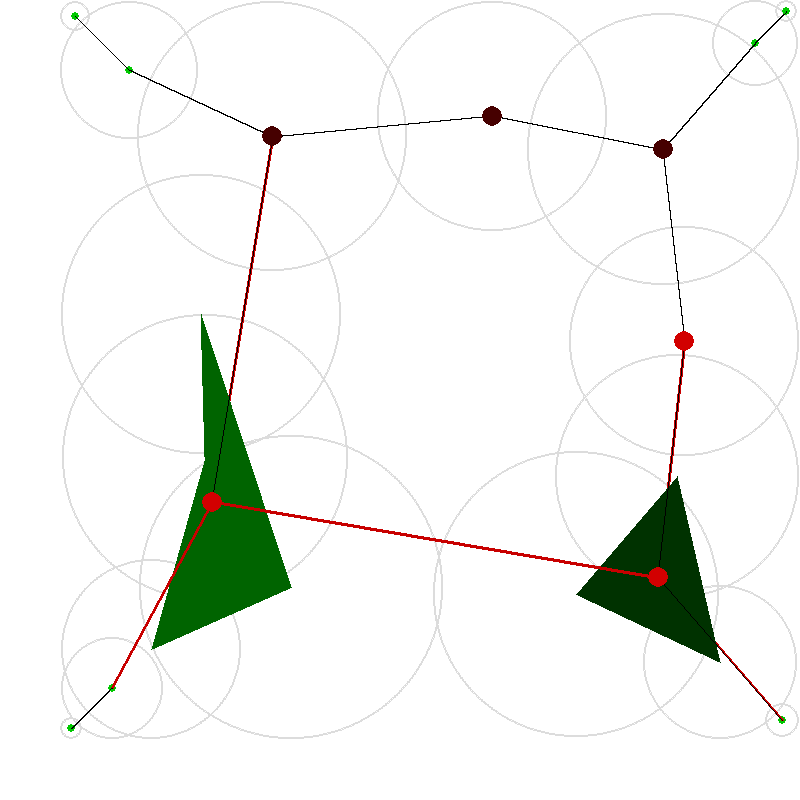
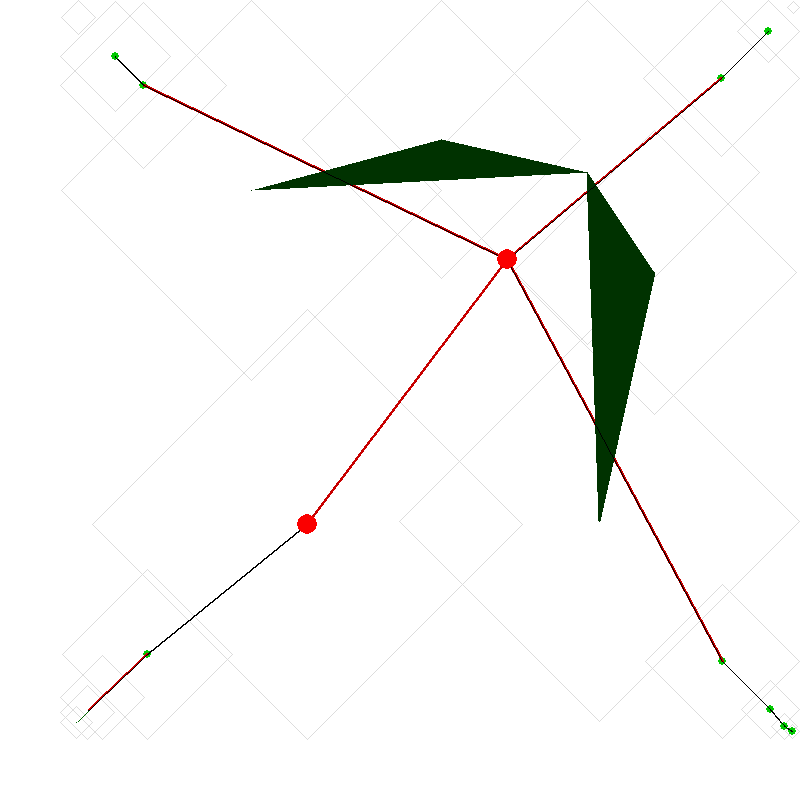
l1 metric bug solved

diff --git a/alphashape/hyper_alpha_shape.py b/alphashape/hyper_alpha_shape.py
@@ -52,11 +52,13 @@ class Nerve:
 		@return edges: (sphere1, sphere2) pairs 
 		@return triangle_set: triangle set
 		@return graph_dict:	dictionary{ sphere1:[sphere2, sphere3,...] }
-		@return edge_tri_dict: dictionary{ (sphere1, sphere2): triangle, .... }'''
-		edges = [];
-		triangle_set = [];
-		graph_dict    = {};
-		edge_tri_dict = {};
+		@return edge_tri_dict: dictionary{ (sphere1, sphere2): triangle, .... }
+		@return sphere_tri_dict: dictionary{ sphere1: [triangle1, tri2...], ... }'''
+		edges 			= [];
+		triangle_set 	= [];
+		graph_dict    	= {};
+		edge_tri_dict 	= {};
+		sphere_tri_dict = {}
 		for i in range(0, len(spheres)):
 			sphere1 = spheres[i];
 			for j in range(0, len(spheres)):
@@ -81,16 +83,29 @@ class Nerve:
 							self.__add2dict__((sphere2,sphere3), triangle, edge_tri_dict);
 							self.__add2dict__((sphere3,sphere2), triangle, edge_tri_dict);
 
+		no_same_tri_set = [];
+		same = [];
 		for tri1 in triangle_set:
+			if tri1 in same:
+				continue;
+			no_same_tri_set.append(tri1);
 			for tri2 in triangle_set:
 				if tri1 == tri2:
 					continue;
 				if tri1.spheres[0] == tri2.spheres[0] or tri1.spheres[0] == tri2.spheres[1] or tri1.spheres[0] == tri2.spheres[2]:
 					if tri1.spheres[1] == tri2.spheres[0] or tri1.spheres[1] == tri2.spheres[1] or tri1.spheres[1] == tri2.spheres[2]:
 						if tri1.spheres[2] == tri2.spheres[0] or tri1.spheres[2] == tri2.spheres[1] or tri1.spheres[2] == tri2.spheres[2]:
-							triangle_set.remove(tri2);
+							#triangle_set.remove(tri2);
+							same.append(tri2);
 
-		return edges, triangle_set, graph_dict, edge_tri_dict;
+		print "initially we have {0} triangles".format(len(triangle_set))
+
+		for tri in no_same_tri_set:
+			self.__add2dict__(tri.spheres[0], tri, sphere_tri_dict);
+			self.__add2dict__(tri.spheres[1], tri, sphere_tri_dict);
+			self.__add2dict__(tri.spheres[2], tri, sphere_tri_dict);
+
+		return edges, no_same_tri_set, graph_dict, edge_tri_dict, sphere_tri_dict;
 
 	def build_topology_roadmap(self, components, graph_dict):
 		'''Build the topology roadmap of C-space.
@@ -119,11 +134,8 @@ class Nerve:
 				new_graph[sphere] = [];
 				for neighbor in graph_dict[sphere]:	   # Loop every neighbor that connects with current sphere
 					if not sphere_comp_dict.has_key(neighbor):
-						#length = (v2(sphere.center[2], sphere.center[3])-v2(neighbor.center[2], neighbor.center[3])).r();
-						#print sphere.center[2], sphere.center[3], neighbor.center[2], neighbor.center[3], length;
 						add2dict(new_graph, sphere,	neighbor)
 					elif not sphere_comp_dict[neighbor] in new_graph[sphere]:
-						#new_graph[sphere].append(sphere_comp_dict[neighbor]);
 						add2dict(new_graph, sphere,	sphere_comp_dict[neighbor]);
 			elif( not new_graph.has_key(sphere_comp_dict[sphere]) ):# the sphere is in a component
 				component = sphere_comp_dict[sphere]
@@ -132,13 +144,8 @@ class Nerve:
 				neighbors = self.component_neighbors(component, graph_dict)
 				for neighbor in neighbors:
 					if not sphere_comp_dict.has_key(neighbor):
-						#new_graph[sphere_comp_dict[sphere]].append(element);
-						print "Comp <-> sphere"
 						add2dict(new_graph, component, neighbor)
 					elif not sphere_comp_dict[neighbor] in new_graph[component] and sphere_comp_dict[neighbor] != component:
-						#new_graph[sphere_comp_dict[sphere]].append(sphere_comp_dict[element]);
-						print "Comp <-> Comp"
-						print component, sphere_comp_dict[neighbor]
 						add2dict(new_graph, component, sphere_comp_dict[neighbor])
 		return new_graph;
 
@@ -166,7 +173,7 @@ class Nerve:
 
 		return len(edge_set) - len(vertices) + 1 - matrix_rank(matrix);
 
-	def contract(self, triangle_set, edge_tri_dict):
+	def contract(self, triangle_set, edge_tri_dict, sphere_tri_dict):
 		'''Contract a set of triangles to several sets of triangles, such that each set has first betti number of 0'''
 		visited_vertices = [];
 		dict_set = []; 	# we use a dictionary to store a set of triangles;
@@ -174,13 +181,13 @@ class Nerve:
 		used = {};
 		for triangle in triangle_set:
 			if not used.has_key(triangle):
-				component = self.contract_node(triangle, used, edge_tri_dict)
+				component = self.contract_triangle(triangle, used, edge_tri_dict, sphere_tri_dict)
 				dict_set.append(component)
 		return dict_set;
 
-	def contract_node(self, triangle, used, edge_tri_dict):
+	def contract_triangle(self, triangle, used, edge_tri_dict, sphere_tri_dict):
 		'''Contract a triangle and its neighbor triangles'''
-		neighbors = self.find_neighbor(triangle, edge_tri_dict)
+		neighbors = self.find_neighbor(triangle, edge_tri_dict, sphere_tri_dict)
 		component = {};
 		component[triangle] = 1
 		used[triangle] = True
@@ -193,7 +200,7 @@ class Nerve:
 					used[neighbor] = True
 					del neighbors[neighbor]
 					found = True;
-					new_neighbors = self.find_neighbor(neighbor, edge_tri_dict)
+					new_neighbors = self.find_neighbor(neighbor, edge_tri_dict, sphere_tri_dict)
 					for new_triangle in new_neighbors.keys():
 						if not used.has_key(new_triangle) and not neighbors.has_key(new_triangle):
 							neighbors[new_triangle] = 1
@@ -219,15 +226,22 @@ class Nerve:
 					edge_set[(a, b)] = 1
 		return edge_set.keys();
 
-	def find_neighbor(self, triangle, edge_tri_dict):
+	def find_neighbor(self, triangle, edge_tri_dict, sphere_tri_dict):
 		'''Find neighbor triangles of a given triangle'''
 		neighbors = {};
+		'''
 		edges = triangle.edges();
 		for edge in edges:
 			if edge_tri_dict.has_key(edge):
 				for tri in edge_tri_dict[edge]:
 					if not neighbors.has_key(tri):
 						neighbors[tri] = 1;
+		'''
+		for sphere in triangle.spheres:
+			neighbor_tris = sphere_tri_dict[sphere];
+			for tri in neighbor_tris:
+				if tri != triangle and not neighbors.has_key(tri):
+					neighbors[tri] = 1;
 		return neighbors
 
 	def component_neighbors(self, component, graph_dict):
@@ -249,15 +263,15 @@ class Nerve:
 	def connections_between( self, elem1, elem2, graph_dict ):
 		'''return the number of connections between the elem1 and the elem2'''
 
-		if isinstance(elem1, hyper_sphere) and isinstance(elem2, hyper_sphere):
+		if (isinstance(elem1, hyper_sphere) or isinstance(elem1, l1_sphere)) and (isinstance(elem2, hyper_sphere) or isinstance(elem2, l1_sphere)):
 			return 1;
-		elif isinstance(elem1, hyper_sphere) and isinstance(elem2, Component):
+		elif (isinstance(elem1, hyper_sphere) or isinstance(elem1, l1_sphere)) and isinstance(elem2, Component):
 			conn = 0;
 			for neighbor in graph_dict[elem1]:
 				if elem2.contains(neighbor):
 					conn += 1;
 			return conn;
-		elif isinstance(elem1, Component) and isinstance(elem2, hyper_sphere):
+		elif isinstance(elem1, Component) and (isinstance(elem2, hyper_sphere) or isinstance(elem2, l1_sphere)):
 			conn = 0;
 			for neighbor in graph_dict[elem2]:
 				if elem1.contains(neighbor):

diff --git a/topology/test.py b/topology/test.py
@@ -51,7 +51,7 @@ def draw_topology_roadmap( surf, rmp_graph_dict ):
 	count = 1;	
 	for node in rmp_graph_dict.keys():
 		point = (0,0)
-		if isinstance(node, hyper_sphere):
+		if isinstance(node, hyper_sphere) or isinstance(node, l1_sphere):
 			point = (int(node.center[2]), int(node.center[3]));
 			pygame.draw.circle(surf, (0,200,0), point, 4 );
 		elif isinstance(node, Component):
@@ -62,7 +62,7 @@ def draw_topology_roadmap( surf, rmp_graph_dict ):
 
 		neighbors = rmp_graph_dict[node];
 		for neighbor in neighbors:
-			if isinstance(neighbor, hyper_sphere):
+			if isinstance(neighbor, hyper_sphere) or isinstance(neighbor, l1_sphere):
 				#pass;
 				pygame.draw.line( surf, (0,0,0), point, (int(neighbor.center[2]), int(neighbor.center[3])) );
 			elif isinstance(neighbor, Component):
@@ -79,20 +79,25 @@ def main():
 	DISPLAYSURF.fill((255,255,255));
 	pygame.display.update();
 
-	sphere_set = load_data('BlockRobotMASamplesL2.txt', 'L2');
+	sphere_set = load_data('BlockRobotMASamplesL1.txt', 'L1');
 
 	for sphere in sphere_set:
 		point = (int(sphere.center[2]), int(sphere.center[3]));
-		pygame.draw.circle( DISPLAYSURF, (220,220,220), point, int(sphere.radius), 2 );
-	
-	alphashape = Nerve();
-	edges, triangle_set, graph_dict, edge_tri_dict = alphashape.nerve(sphere_set);
+		if isinstance(sphere, hyper_sphere):
+			pygame.draw.circle( DISPLAYSURF, (220,220,220), point, int(sphere.radius), 2 );
+		elif isinstance(sphere, l1_sphere):
+			radius = int(sphere.radius)
+			points = [ (point[0]-radius,point[1]), (point[0],point[1]-radius), (point[0]+radius,point[1]), (point[0],point[1]+radius) ]
+			pygame.draw.polygon( DISPLAYSURF, (220,220,220), points, 1 );
 
+	alphashape = Nerve();
+	edges, triangle_set, graph_dict, edge_tri_dict, sphere_tri_dict = alphashape.nerve(sphere_set);
+	print "Get {0} triangles.".format( len(triangle_set) )
 	#draw_topology_roadmap(DISPLAYSURF, graph_dict)
 	#draw_triangles(DISPLAYSURF, triangle_set);
 	
-	components = alphashape.contract(triangle_set, edge_tri_dict);
-	#print len(components)
+	components = alphashape.contract(triangle_set, edge_tri_dict, sphere_tri_dict);
+	print "Get {0} components".format(len(components))
 	i = 1;
 	for component in components:
 		draw_triangles(DISPLAYSURF, component, (0,50 * i, 50 * i));
@@ -107,35 +112,41 @@ def main():
 	
 
 	graph = Graph(rmp_graph_dict);
+	for x in graph.graphdict:
+		print ""
+		for y in graph.graphdict[x]:
+			print (x,':	',y)
 
-	start = vec([400,400, 100, 400]);
-	end   = vec([400, 400, 700, 400]);
+	start = vec([400,400, 250, 400]);
+	end   = vec([400, 400, 560, 500]);
 
 	start_node = graph.find_node(start);
 	end_node   = graph.find_node(end);
+	pygame.draw.circle(DISPLAYSURF, (0,0,250), (start[2], start[3]), 4);
+	pygame.draw.circle(DISPLAYSURF, (0,0,250), (end[2], end[3]), 4);
 
-	print start_node;
-	print end_node
+	#print start_node;
+	#print end_node
 
 	paths = graph.find_all_paths(start_node, end_node);
-	print len(paths);
+	count = len(paths);
 	i = 0;
 	for path in paths:
 		i += 1
 		print '================'
 		for node in path:
-			if isinstance(node, hyper_sphere):
+			if isinstance(node, hyper_sphere) or isinstance(node, l1_sphere):
 				point = ( int(node.center[2]), int(node.center[3]) )
 				print point
-				pygame.draw.circle(DISPLAYSURF, (70*i,0,0), point, 10 );
+				pygame.draw.circle(DISPLAYSURF, ((250.0/count)*i,0,0), point, 10 );
 			elif isinstance(node, Component):
 				center = component_center(node);
 				point = ( int(center[2]), int(center[3]) );
 				print point
-				pygame.draw.circle(DISPLAYSURF, (70*i,0,0), point, 10 );
+				pygame.draw.circle(DISPLAYSURF, ((250.0/count)*i,0,0), point, 10 );
 
 
-	pygame.image.save(DISPLAYSURF, 'roadmap.PNG');
+	pygame.image.save(DISPLAYSURF, 'roadmapL1.PNG');
 
 	pass;
 

diff --git a/topology/hyper_graph.py b/topology/hyper_graph.py
@@ -65,7 +65,7 @@ class Graph:
 	def find_node( self, config ):
 		'''given a config in 4D, find the containing node in the graph'''
 		for node in self.graphdict.keys():
-			if isinstance(node, hyper_sphere):
+			if isinstance(node, hyper_sphere) or isinstance(node, l1_sphere):
 				if node.contains(config):
 					return node;
 				pass;
